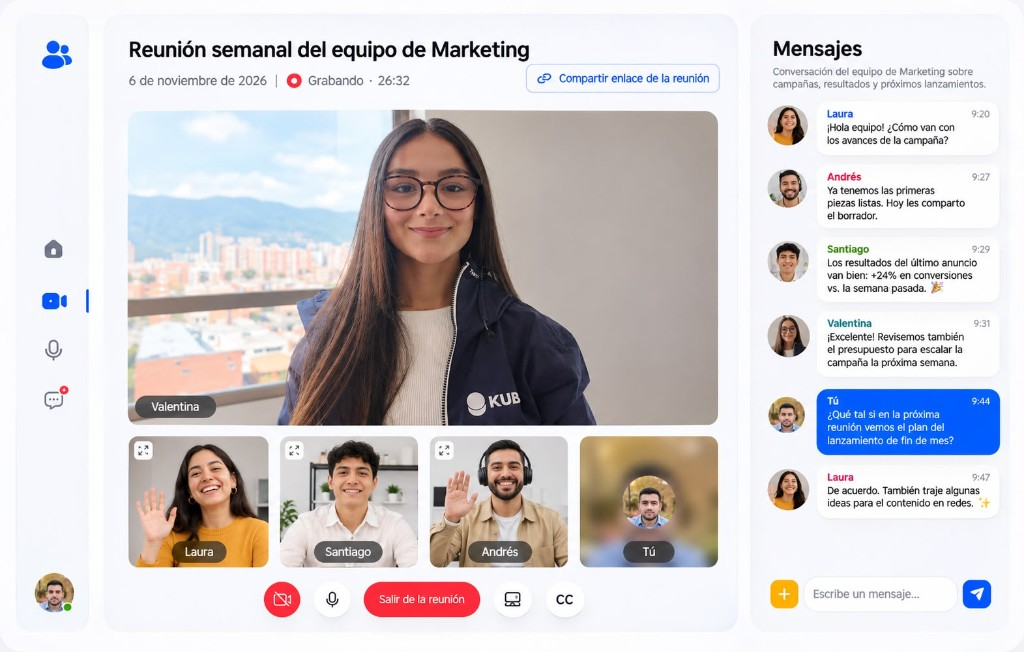
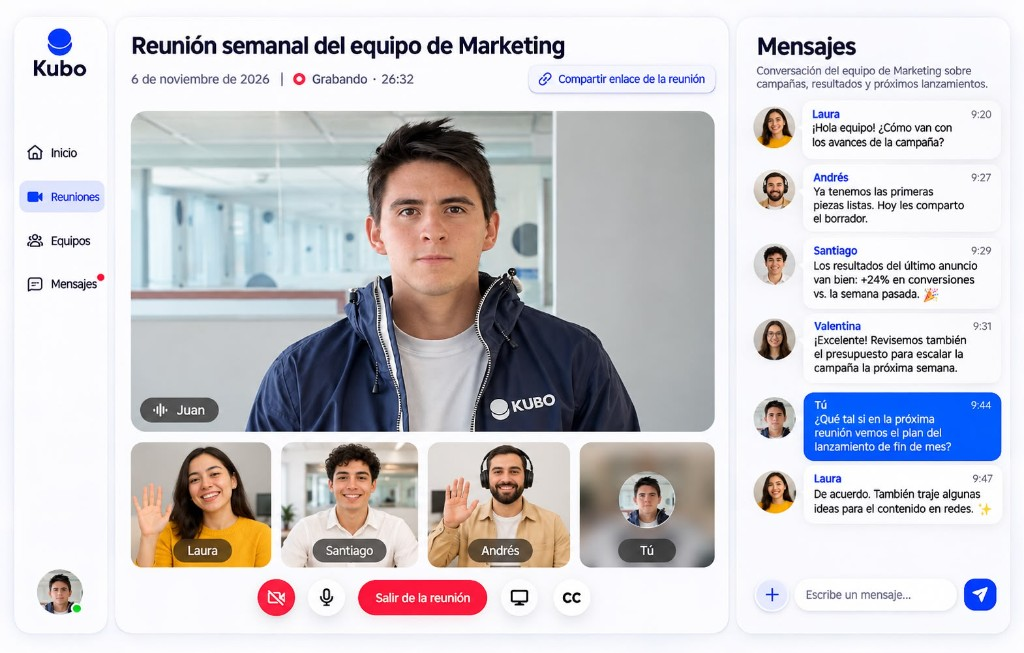
Cambia el hero de marketing a la reunión con Juan y agrega los casos de Westpoint y ESSE.

diff --git a/index.html b/index.html
@@ -224,7 +224,7 @@
                   <p class="km-hero-note has_fade_anim" data-delay="0.55">Desde $500.000 COP / mes. Sin permanencia larga.</p>
                 </div>
                 <div class="hero-thumb has_fade_anim">
-                  <img class="hero-product" src="assets/imgs/gallery/kubo-marketing-meeting.jpg" alt="Reunión semanal del equipo de Marketing de Kubo — Valentina lidera la llamada">
+                  <img class="hero-product" src="assets/imgs/gallery/kubo-marketing-meeting.jpg" alt="Reunión semanal del equipo de Marketing de Kubo — Juan lidera la llamada">
                 </div>
               </div>
             </div>
@@ -263,6 +263,63 @@
                   <p class="km-tag">Flujo</p>
                   <h3>Tú apruebas</h3>
                   <p>Ves el calendario, das el ok y Kubo publica. Marketing que se siente como revisar, no como trabajar.</p>
+                </article>
+              </div>
+            </div>
+          </section>
+
+          <section id="casos" class="km-cases-area section-spacing">
+            <div class="container">
+              <div class="section-header">
+                <div class="section-title-wrapper">
+                  <div class="title-wrapper">
+                    <h2 class="section-title has_fade_anim">Lo dicen quienes ya trabajan con Kubo.</h2>
+                  </div>
+                </div>
+                <div class="text-wrapper">
+                  <p class="text has_fade_anim">Westpoint Security y ESSE Legal. Resultados reales, no promesas de agencia.</p>
+                </div>
+              </div>
+              <div class="km-cases has_fade_anim">
+                <article class="km-case">
+                  <!-- Pega el ID de YouTube de Westpoint en data-youtube -->
+                  <div class="km-case-video" data-youtube="">
+                    <div class="km-case-play">
+                      <span class="km-play-icon" aria-hidden="true"></span>
+                      <span>Video de Westpoint · próximamente</span>
+                    </div>
+                  </div>
+                  <blockquote>
+                    <p>“La empresa estaba en caída. Habíamos pagado otros marketings que nos cobraban hasta cuatro veces más, y las llamadas que recibíamos eran, en su mayoría, de gente buscando trabajo. Con Kubo y con Juan Esteban el cambio fue muy grande. Ya llevamos seis años trabajando juntos.”</p>
+                  </blockquote>
+                  <div class="km-case-person">
+                    <img src="assets/imgs/client/img-s-8.png" alt="Marcela Cobo, CEO de Westpoint Security">
+                    <div>
+                      <strong>Marcela Cobo</strong>
+                      <span>CEO, Westpoint Security</span>
+                    </div>
+                    <span class="km-case-chip">6 años juntos</span>
+                  </div>
+                </article>
+                <article class="km-case">
+                  <!-- Pega el ID de YouTube de ESSE Legal en data-youtube -->
+                  <div class="km-case-video" data-youtube="">
+                    <div class="km-case-play">
+                      <span class="km-play-icon" aria-hidden="true"></span>
+                      <span>Video de ESSE Legal · próximamente</span>
+                    </div>
+                  </div>
+                  <blockquote>
+                    <p>“Dependíamos de referidos. Con Kubo dejamos de esperar a que alguien nos recomendara: hoy nos encuentran, y hemos podido escalar la operación.”</p>
+                  </blockquote>
+                  <div class="km-case-person">
+                    <img src="assets/imgs/client/img-s-9.png" alt="Santiago Pardo, CEO de ESSE Legal">
+                    <div>
+                      <strong>Santiago Pardo</strong>
+                      <span>CEO, ESSE Legal · abogados laborales</span>
+                    </div>
+                    <span class="km-case-chip">De referidos a escala</span>
+                  </div>
                 </article>
               </div>
             </div>
@@ -1218,6 +1275,12 @@
       })
     }
 
+
+    document.querySelectorAll('.km-case-video[data-youtube]').forEach(function (el) {
+      var id = (el.getAttribute('data-youtube') || '').trim();
+      if (!id) return;
+      el.innerHTML = '<iframe src="https://www.youtube.com/embed/' + encodeURIComponent(id) + '?rel=0" title="Caso de éxito Kubo" allow="accelerometer; autoplay; clipboard-write; encrypted-media; gyroscope; picture-in-picture" allowfullscreen></iframe>';
+    });
 
     (function () {
       var input = document.getElementById('km-url');

diff --git a/assets/css/kubo-marketing.css b/assets/css/kubo-marketing.css
@@ -252,6 +252,145 @@
   margin: 0;
 }
 
+.page-marketing .km-cases-area {
+  background: #fafafa;
+}
+
+.page-marketing .km-cases-area .section-header {
+  text-align: center;
+}
+
+.page-marketing .km-cases-area .section-title {
+  max-width: 720px;
+  margin: 0 auto;
+  color: #072032;
+}
+
+.page-marketing .km-cases-area .text {
+  max-width: 640px;
+  margin: 16px auto 0;
+  color: #5c6972;
+}
+
+.page-marketing .km-cases {
+  display: grid;
+  grid-template-columns: 1fr 1fr;
+  gap: 24px;
+  margin-top: 48px;
+}
+
+.page-marketing .km-case {
+  background: #fff;
+  border: 1px solid #ebedef;
+  border-radius: 24px;
+  padding: 18px 18px 24px;
+  display: flex;
+  flex-direction: column;
+}
+
+.page-marketing .km-case-video {
+  position: relative;
+  aspect-ratio: 16 / 9;
+  border-radius: 16px;
+  overflow: hidden;
+  background: #072032;
+  margin-bottom: 22px;
+}
+
+.page-marketing .km-case-video iframe {
+  position: absolute;
+  inset: 0;
+  width: 100%;
+  height: 100%;
+  border: 0;
+}
+
+.page-marketing .km-case-play {
+  position: absolute;
+  inset: 0;
+  display: flex;
+  flex-direction: column;
+  align-items: center;
+  justify-content: center;
+  gap: 12px;
+  color: rgba(255, 255, 255, 0.88);
+  font-size: 14px;
+  font-weight: 600;
+  text-align: center;
+  padding: 20px;
+}
+
+.page-marketing .km-play-icon {
+  width: 58px;
+  height: 58px;
+  border-radius: 50%;
+  background: #fff;
+  position: relative;
+  box-shadow: 0 10px 30px rgba(0, 0, 0, 0.2);
+}
+
+.page-marketing .km-play-icon::after {
+  content: "";
+  position: absolute;
+  left: 23px;
+  top: 18px;
+  border-style: solid;
+  border-width: 11px 0 11px 16px;
+  border-color: transparent transparent transparent #072032;
+}
+
+.page-marketing .km-case blockquote {
+  margin: 0 8px 20px;
+  flex: 1;
+}
+
+.page-marketing .km-case blockquote p {
+  font-size: 17px;
+  line-height: 1.55;
+  color: #072032;
+  margin: 0;
+}
+
+.page-marketing .km-case-person {
+  display: flex;
+  align-items: center;
+  gap: 12px;
+  margin: 0 8px;
+  flex-wrap: wrap;
+}
+
+.page-marketing .km-case-person img {
+  width: 48px;
+  height: 48px;
+  border-radius: 50%;
+  object-fit: cover;
+}
+
+.page-marketing .km-case-person strong {
+  display: block;
+  font-size: 15px;
+  color: #072032;
+  line-height: 1.2;
+}
+
+.page-marketing .km-case-person span {
+  display: block;
+  font-size: 13px;
+  color: #5c6972;
+}
+
+.page-marketing .km-case-chip {
+  margin-left: auto;
+  background: #eef3ff;
+  color: #072032 !important;
+  font-size: 12px !important;
+  font-weight: 700;
+  letter-spacing: 0.02em;
+  border-radius: 999px;
+  padding: 8px 12px;
+  white-space: nowrap;
+}
+
 @media only screen and (max-width: 1199px) {
   .page-marketing .hero-thumb {
     width: min(640px, 100%);
@@ -276,8 +415,13 @@
 
   .page-marketing .km-pricing,
   .page-marketing .km-steps,
-  .page-marketing .km-channels {
+  .page-marketing .km-channels,
+  .page-marketing .km-cases {
     grid-template-columns: 1fr;
+  }
+
+  .page-marketing .km-case-chip {
+    margin-left: 0;
   }
 
   .page-marketing .km-price-card.is-featured {
